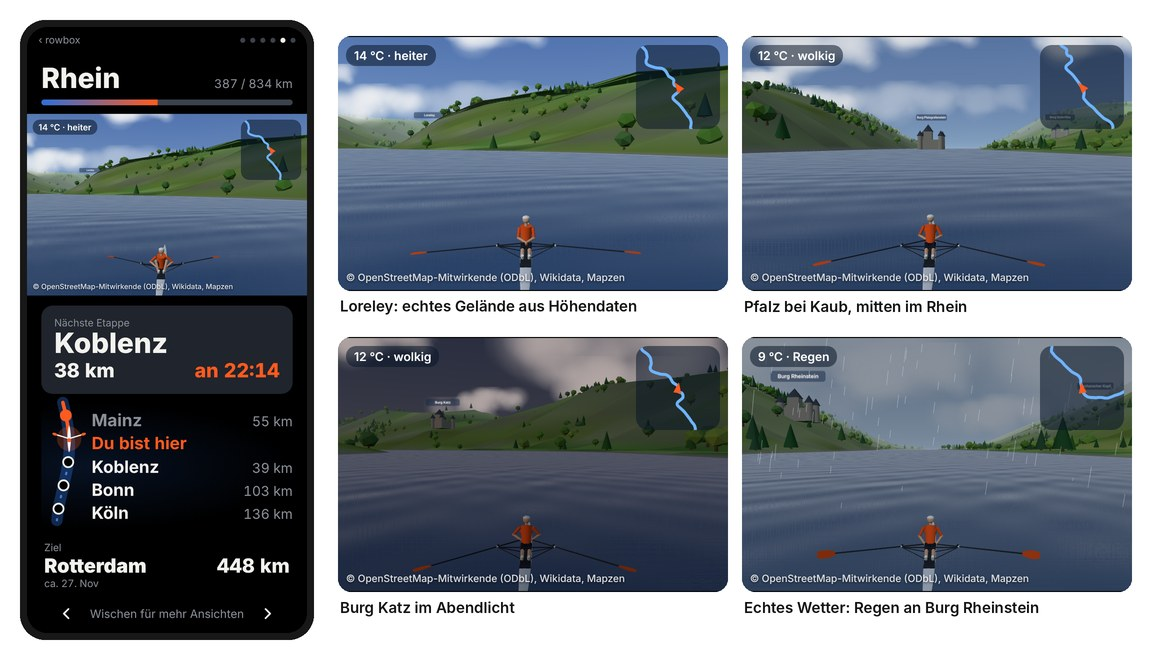
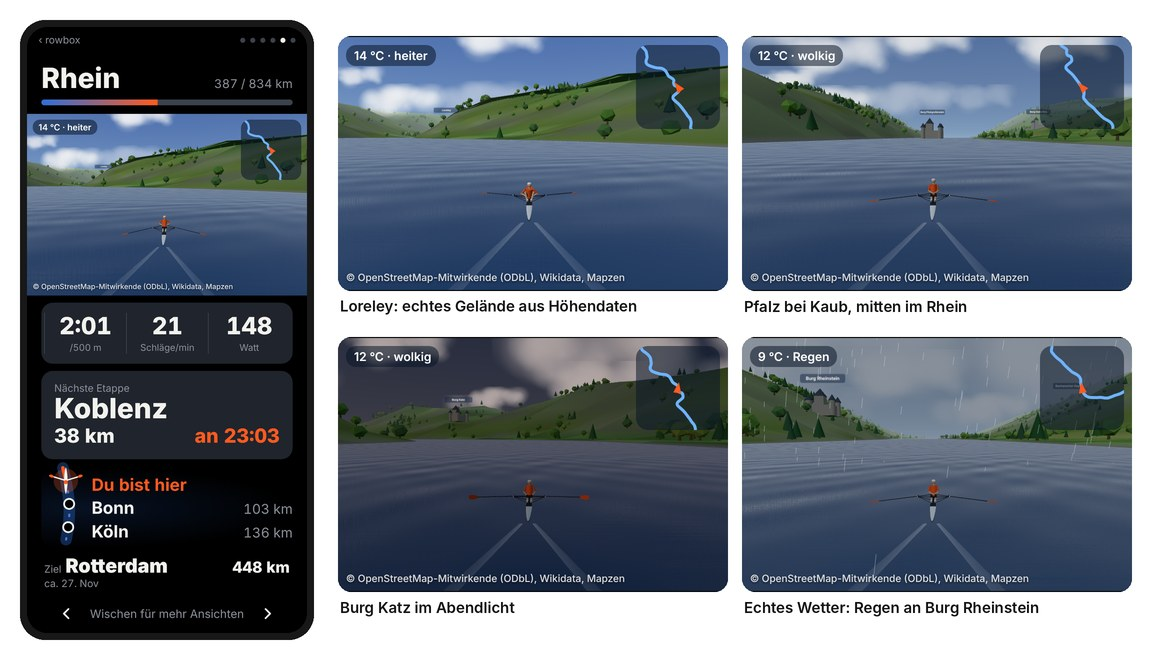
README: cockpit, live card and journey settings with new screenshots
- new cockpit image (tablet landscape, DE/EN) in the 3D section
- 3D section explains the live card, landscape cockpit, screen staying on and the
  journey settings (parts and boat colours)
- rhine_3d and phone_display images regenerated with the current layout

diff --git a/README.de.md b/README.de.md
@@ -39,8 +39,19 @@ Zuganfang.
   Schnee, Nebel nach Sichtweite, Wind auf dem Wasser und ein kleines Schild wie „9 °C · Regen“.
 - **Läuft offline:** Die Strecke liegt auf der Box (etwa 85 KB), beim Rudern ist kein Kartendienst
   nötig. Ohne Internet bleibt der Himmel einfach freundlich.
+- **Live-Werte auf dem Fluss:** Eine Karte unter der Szene zeigt beim Rudern Pace, Schlagzahl und
+  Watt, dazu die nächste Etappe und das Ziel.
+- **Tablet oder Handy quer = Cockpit:** Der Fluss füllt den ganzen Bildschirm, darüber Glaskarten
+  für die Strecke, die nächste Etappe und fünf Live-Werte (Meter, Pace, Schlagzahl, Watt, Zeit).
+  Der Bildschirm bleibt beim Rudern an.
+- **Nach deinem Geschmack:** Unter Einstellungen → Reise wählst du, was die Reise-Ansicht zeigt
+  (3D-Ansicht, Live-Werte, nächste Etappe, Orte, Ziel, kleine Karte, Wetter-Schild), und die
+  Farben von Boot, Blättern und Shirt des Ruderers.
 - **Gemacht fürs Handy:** three.js läuft im Browser des Handys, der Pi liefert nur die Dateien.
   Die Szene rechnet nur, solange die Reise-Ansicht sichtbar ist.
+
+<p align="center"><img src="docs/cockpit.jpg" width="900" alt="Reise als Cockpit auf dem Tablet quer: 3D-Fluss über den ganzen Bildschirm, Strecke oben, nächste Etappe und Ziel rechts, fünf Live-Werte unten"></p>
+<p align="center"><sub>Quer auf dem Tablet: die Reise als Cockpit.</sub></p>
 
 Andere Strecken zeigen vorerst einen erzeugten Fluss; `tools/build_route.py` macht aus
 OpenStreetMap-Daten eine Streckendatei (siehe [CONTRIBUTING](CONTRIBUTING.md), auf Englisch).
@@ -96,7 +107,8 @@ OpenStreetMap-Daten eine Streckendatei (siehe [CONTRIBUTING](CONTRIBUTING.md), a
   ersten 10 km oder eine Stunde am Stück, erscheinen nach der Einheit auf dem Display. Keine
   Serien, keine Fristen, nichts geht verloren; in den Einstellungen abschaltbar.
 - **Eigene Auswahl an Ansichten:** In den Einstellungen legst du fest, welche Ansichten die
-  Display-Taste durchblättert.
+  Display-Taste durchblättert, was die Reise-Ansicht auf dem Handy zeigt und welche Farben das
+  3D-Boot hat.
 - **Pause mit Countdown:** In einer kurzen Pause bleibt das Display in der Trainingsansicht und
   zeigt, wann die Einheit automatisch endet.
 - **MQTT (optional):** schickt die Werte an einen MQTT-Server; Home Assistant erkennt sie von

diff --git a/README.md b/README.md
@@ -38,8 +38,19 @@ with the shape of your force curve. Stop rowing and he waits at the catch.
   and a small label like "9 °C · rain".
 - **Works offline:** the route ships with the box (about 85 KB), no map service needed while you
   row. Without internet the sky simply stays fair.
+- **Live values on the river:** a card under the scene shows pace, stroke rate and watts while
+  you row, together with the next stage and the destination.
+- **Tablet or phone sideways = cockpit:** the river fills the whole screen, with glass panels for
+  the route, the next stage and five live values (metres, pace, stroke rate, watts, time).
+  The screen stays on while you row.
+- **Make it yours:** in Settings → Journey you pick which parts the journey screen shows (3D view,
+  live values, next stage, places, destination, small map, weather label) and the colours of the
+  boat, the blades and the rower's shirt.
 - **Made for the phone:** three.js runs in the phone's browser; the Pi only serves the files.
   The scene renders only while the journey screen is visible.
+
+<p align="center"><img src="docs/cockpit_en.jpg" width="900" alt="Journey as a cockpit on a tablet in landscape: 3D river across the screen, route at the top, next stage and destination on the right, five live values at the bottom"></p>
+<p align="center"><sub>Sideways on a tablet: the journey as a cockpit.</sub></p>
 
 Other routes keep a generated river for now; `tools/build_route.py` turns OpenStreetMap data
 into a route file (see [CONTRIBUTING](CONTRIBUTING.md)).
@@ -93,7 +104,7 @@ into a route file (see [CONTRIBUTING](CONTRIBUTING.md)).
   10 km or an hour in one go appear on the display after a session. No streaks, no deadlines,
   nothing to lose; switch it off in the settings if you like.
 - **Your own set of screens:** in the settings you choose which screens the display button
-  cycles through.
+  cycles through, which parts the phone's journey screen shows and the colours of the 3D boat.
 - **Pause countdown:** during a short break the display stays on the training screen and shows
   how long until the session ends automatically.
 - **MQTT (optional):** sends the values to an MQTT server; Home Assistant picks them up
